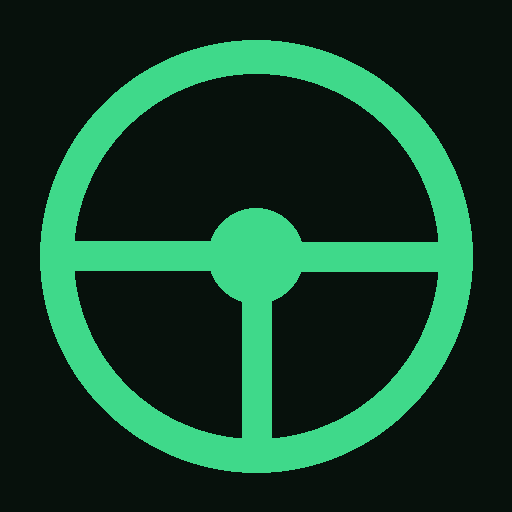
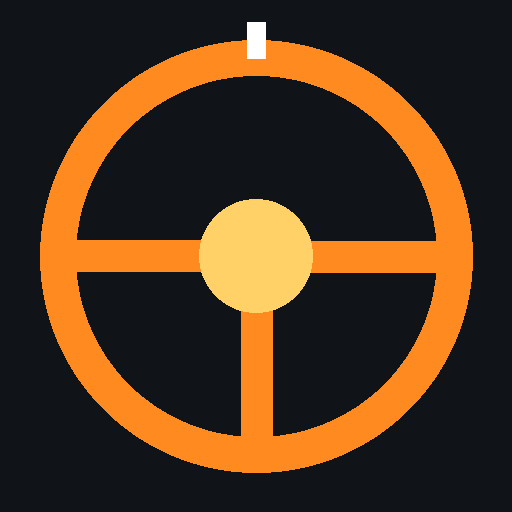
App Guida: aspetto tutto suo (colori, sfondo e icona nuovi)
Claude-Session: https://claude.ai/code/session_01RaaJcZ193QxmhmCUdkRLYp

Changed region(s): [[0.0625, 0.0312, 0.9375, 0.9375]]

diff --git a/guida/index.html b/guida/index.html
@@ -1,13 +1,13 @@
 <!doctype html><html lang="it"><head><meta charset="utf-8"><meta name="viewport" content="width=device-width,initial-scale=1,viewport-fit=cover,user-scalable=no">
-<title>Guida Gioco della Vita PM</title><link rel="manifest" href="manifest.json"><meta name="theme-color" content="#07110c"><link rel="icon" href="icona-192.png"><link rel="apple-touch-icon" href="icona-180.png">
+<title>Guida PM</title><link rel="manifest" href="manifest.json"><meta name="theme-color" content="#101317"><link rel="icon" href="icona-192.png"><link rel="apple-touch-icon" href="icona-180.png">
 <meta name="apple-mobile-web-app-capable" content="yes"><meta name="mobile-web-app-capable" content="yes"><meta name="apple-mobile-web-app-title" content="Guida PM"><meta name="robots" content="noindex">
 <style>
-:root{--bg:#07110c;--card:#0d1a13;--card2:#11241a;--ink:#eafff2;--soft:#8fb7a0;--line:#1f3a2b;--acc:#3fd98a;--bad:#ff5d6c;--gold:#ffd166}
-*{box-sizing:border-box;-webkit-tap-highlight-color:transparent}html,body{margin:0;height:100%;background:var(--bg);color:var(--ink);font:16px/1.4 system-ui,-apple-system,Segoe UI,Roboto,sans-serif;overscroll-behavior:none}
-button{font:inherit;font-weight:800;border-radius:14px;padding:12px 16px;border:1.5px solid var(--line);background:var(--card);color:var(--ink);cursor:pointer}button.p{background:var(--acc);border-color:var(--acc);color:#021008}
+:root{--bg:#101317;--card:#1a1e24;--card2:#232830;--ink:#f4f6f9;--soft:#a7b0bd;--line:#343b46;--acc:#ff8a1f;--bad:#ff5d6c;--gold:#ffd166}
+*{box-sizing:border-box;-webkit-tap-highlight-color:transparent}html,body{margin:0;height:100%;background:radial-gradient(circle at 50% 0%,#20252c 0,transparent 60%),repeating-linear-gradient(45deg,rgba(255,255,255,.012) 0 2px,transparent 2px 6px),var(--bg);color:var(--ink);font:16px/1.4 system-ui,-apple-system,Segoe UI,Roboto,sans-serif;overscroll-behavior:none}
+button{font:inherit;font-weight:800;border-radius:14px;padding:12px 16px;border:1.5px solid var(--line);background:var(--card);color:var(--ink);cursor:pointer}button.p{background:var(--acc);border-color:var(--acc);color:#1a0d00}
 #home{min-height:100%;display:flex;flex-direction:column;align-items:center;justify-content:center;gap:14px;padding:max(20px,env(safe-area-inset-top)) 16px 24px;text-align:center}
-#home img{width:96px;height:96px;border-radius:24px}#home h1{margin:0;font-size:24px}#home .sub{color:var(--soft);font-weight:600;margin:0;max-width:420px}
-#cod{width:min(320px,100%);font:900 36px/1 ui-monospace,monospace;letter-spacing:8px;text-align:center;padding:14px;border-radius:16px;border:2px solid var(--acc);background:#020604;color:var(--ink)}
+#home{background:linear-gradient(180deg,transparent 0,transparent 70%,rgba(0,0,0,.25) 100%)}#home:before{content:'';position:fixed;left:50%;bottom:0;width:10px;height:42vh;transform:translateX(-50%);background:repeating-linear-gradient(180deg,#ffd166 0 26px,transparent 26px 52px);opacity:.18;pointer-events:none;z-index:-1;animation:ln 1.2s linear infinite}@keyframes ln{to{background-position:0 52px}}#home img{width:96px;height:96px;border-radius:24px;box-shadow:0 8px 30px rgba(255,138,31,.35)}#home h1{letter-spacing:.5px}#home h1 b{color:var(--acc)}#home h1{margin:0;font-size:24px}#home .sub{color:var(--soft);font-weight:600;margin:0;max-width:420px}
+#cod{width:min(320px,100%);font:900 36px/1 ui-monospace,monospace;letter-spacing:8px;text-align:center;padding:14px;border-radius:16px;border:2px solid var(--acc);background:#0a0c0f;color:var(--ink)}
 #home .p{width:min(320px,100%);font-size:19px;padding:15px}.how{background:var(--card);border:1px solid var(--line);border-radius:16px;padding:12px 14px;text-align:left;max-width:420px;font-size:14.5px;color:var(--soft);font-weight:600}.how b{color:var(--ink)}
 #err{color:var(--bad);font-weight:800;min-height:22px;margin:0}#inst{display:none}
 #drive{position:fixed;inset:0;display:none;touch-action:none;user-select:none;-webkit-user-select:none}
@@ -27,7 +27,7 @@ body.wm #mid{left:38%;right:38%;justify-content:flex-end;padding-bottom:max(18px
 #whl{position:absolute;display:none;right:max(14px,env(safe-area-inset-right));bottom:max(10px,env(safe-area-inset-bottom));width:min(42vw,78vh);height:min(42vw,78vh);touch-action:none;cursor:grab}
 body.wm #whl{display:block}#whl svg{width:100%;height:100%;transition:transform .02s}#whl.back svg{transition:transform .25s ease-out}
 #gear{position:absolute;display:none;right:calc(max(14px,env(safe-area-inset-right)) + min(42vw,78vh) - 40px);top:max(54px,calc(env(safe-area-inset-top) + 46px));flex-direction:column;gap:6px}
-body.wm #gear{display:flex}#gear button{width:52px;height:46px;padding:0;font:900 20px ui-monospace,monospace;border-radius:12px;color:var(--soft)}#gear button.on{background:var(--acc);color:#021008;border-color:var(--acc)}
+body.wm #gear{display:flex}#gear button{width:52px;height:46px;padding:0;font:900 20px ui-monospace,monospace;border-radius:12px;color:var(--soft)}#gear button.on{background:var(--acc);color:#1a0d00;border-color:var(--acc)}
 #bgv{position:absolute;inset:0;width:100%;height:100%;object-fit:cover;display:none;background:#000}body.bgg #bgv{display:block}
 body.bgg #brk{background:rgba(91,18,32,.72)}body.bgg #gas{background:rgba(13,90,46,.72)}body.bgg:not(.wm) #brk,body.bgg:not(.wm) #gas{background:rgba(0,0,0,.18);border:3px solid rgba(255,255,255,.25)}
 body.bgg #mid{text-shadow:0 2px 6px #000}body.bgg #stt{background:rgba(0,0,0,.45);border-radius:10px;padding:3px 8px}body.bgg #whl svg circle:first-child{stroke:rgba(11,22,16,.75)}
@@ -35,22 +35,22 @@ body.bgg #mid{text-shadow:0 2px 6px #000}body.bgg #stt{background:rgba(0,0,0,.45
 @keyframes r9{0%,30%{transform:rotate(0)}60%,100%{transform:rotate(-90deg)}}
 @media (orientation:portrait){body.drv #rot{display:flex}}
 #opt{position:fixed;inset:0;background:rgba(0,0,0,.65);display:none;place-items:center;z-index:6;padding:16px}#opt .in{background:var(--card);border:1.5px solid var(--acc);border-radius:20px;padding:16px;width:min(420px,100%);display:flex;flex-direction:column;gap:10px;max-height:92vh;overflow:auto}
-#opt .seg{display:flex;gap:6px}#opt .seg button{flex:1;padding:9px}#opt .seg button.on{background:var(--acc);color:#021008;border-color:var(--acc)}#opt small{color:var(--soft);font-weight:600}
+#opt .seg{display:flex;gap:6px}#opt .seg button{flex:1;padding:9px}#opt .seg button.on{background:var(--acc);color:#1a0d00;border-color:var(--acc)}#opt small{color:var(--soft);font-weight:600}
 </style></head><body>
-<div id="home"><img src="icona-192.png" alt=""><h1>Guida · Gioco della Vita PM</h1>
+<div id="home"><img src="icona-192.png" alt=""><h1>🏁 <b>Guida</b> · Gioco della Vita PM</h1>
  <p class="sub">Il tuo telefono diventa il volante del Gioco della Vita PM che hai aperto sul computer.</p>
  <input id="cod" inputmode="numeric" pattern="[0-9]*" maxlength="7" placeholder="000000" autocomplete="off" aria-label="Codice del gioco">
  <button class="p" id="go">🔗 Collega</button><p id="err"></p>
- <div class="how"><b>Come si fa</b><br>1. Sul computer, nel gioco: ⚙ Impostazioni → 🎮 Impostazioni guida → 📱 Collega al telefono.<br>2. Scrivi qui il codice che vedi sul computer.<br>3. Tieni il telefono <b>in orizzontale</b>, come un volante: a <b>destra</b> l'acceleratore, a <b>sinistra</b> il freno. Giralo per sterzare!</div>
+ <div class="how"><b>Come si fa</b><br>1. Sul computer, nel gioco: ⚙ Impostazioni → 🎮 Impostazioni guida → 📱 Collega al telefono.<br>2. Scrivi qui il codice che vedi sul computer.<br>3. Tieni il telefono <b>in orizzontale</b>: a <b>destra</b> il volante da girare col dito, a <b>sinistra</b> freno e acceleratore. Nelle ⚙ puoi scegliere di sterzare muovendo il telefono e lo sfondo col gioco.</div>
  <button id="inst">📲 Installa l'app sul telefono</button></div>
 <div id="drive"><video id="bgv" autoplay muted playsinline></video><button class="ped" id="brk" aria-label="Freno"><i>🛑</i>FRENO<small style="font-size:12px;opacity:.8">tieni premuto: retromarcia</small></button>
- <div id="mid"><svg id="wh" viewBox="0 0 100 100" aria-hidden="true"><circle cx="50" cy="50" r="42" fill="none" stroke="#3fd98a" stroke-width="8"/><circle cx="50" cy="50" r="10" fill="#3fd98a"/><path d="M8 50H40M60 50H92M50 60V92" stroke="#3fd98a" stroke-width="7" stroke-linecap="round"/><circle cx="50" cy="8" r="4" fill="#ffd166"/></svg>
+ <div id="mid"><svg id="wh" viewBox="0 0 100 100" aria-hidden="true"><circle cx="50" cy="50" r="42" fill="none" stroke="#ff8a1f" stroke-width="8"/><circle cx="50" cy="50" r="10" fill="#ff8a1f"/><path d="M8 50H40M60 50H92M50 60V92" stroke="#ff8a1f" stroke-width="7" stroke-linecap="round"/><circle cx="50" cy="8" r="4" fill="#ffd166"/></svg>
   <div id="spd">0<small>velocità</small></div><div id="stt">⏳ Mi collego…</div></div>
  <button class="ped" id="gas" aria-label="Acceleratore"><i>🟢</i>ACCELERA</button>
- <div id="whl" aria-label="Volante: giralo col dito"><svg viewBox="0 0 200 200" aria-hidden="true"><defs><radialGradient id="wg" cx="50%" cy="40%" r="60%"><stop offset="0" stop-color="#2b4a39"/><stop offset="1" stop-color="#0b1610"/></radialGradient></defs>
-  <circle cx="100" cy="100" r="88" fill="none" stroke="#0b1610" stroke-width="26"/><circle cx="100" cy="100" r="88" fill="none" stroke="#3fd98a" stroke-width="5" opacity=".85"/><circle cx="100" cy="100" r="76" fill="none" stroke="#1f3a2b" stroke-width="3"/>
-  <path d="M14 100H70M130 100H186M100 130V188" stroke="#14261c" stroke-width="22" stroke-linecap="round"/><path d="M14 100H70M130 100H186M100 130V188" stroke="#3fd98a" stroke-width="3" stroke-linecap="round" opacity=".6"/>
-  <circle cx="100" cy="100" r="34" fill="url(#wg)" stroke="#3fd98a" stroke-width="3"/><text x="100" y="108" text-anchor="middle" font-size="20" font-weight="900" fill="#3fd98a" font-family="system-ui">PM</text><rect x="94" y="6" width="12" height="14" rx="4" fill="#ffd166"/></svg></div>
+ <div id="whl" aria-label="Volante: giralo col dito"><svg viewBox="0 0 200 200" aria-hidden="true"><defs><radialGradient id="wg" cx="50%" cy="40%" r="60%"><stop offset="0" stop-color="#3a414c"/><stop offset="1" stop-color="#15181d"/></radialGradient></defs>
+  <circle cx="100" cy="100" r="88" fill="none" stroke="#15181d" stroke-width="26"/><circle cx="100" cy="100" r="88" fill="none" stroke="#ff8a1f" stroke-width="5" opacity=".85"/><circle cx="100" cy="100" r="76" fill="none" stroke="#343b46" stroke-width="3"/>
+  <path d="M14 100H70M130 100H186M100 130V188" stroke="#22272f" stroke-width="22" stroke-linecap="round"/><path d="M14 100H70M130 100H186M100 130V188" stroke="#ff8a1f" stroke-width="3" stroke-linecap="round" opacity=".6"/>
+  <circle cx="100" cy="100" r="34" fill="url(#wg)" stroke="#ff8a1f" stroke-width="3"/><text x="100" y="108" text-anchor="middle" font-size="20" font-weight="900" fill="#ff8a1f" font-family="system-ui">PM</text><rect x="94" y="6" width="12" height="14" rx="4" fill="#ffd166"/></svg></div>
  <div id="gear"><button data-gr="D" class="on">D</button><button data-gr="R">R</button></div>
  <div id="bar"><button id="ctr">🎯 Dritto</button><button id="opb">⚙</button><button id="ex">✕</button></div></div>
 <div id="rot"><i>📱</i>Gira il telefono in orizzontale<br><small style="color:var(--soft)">come un volante 🚗</small></div>

diff --git a/sorgenti/guida/index.html b/sorgenti/guida/index.html
@@ -1,13 +1,13 @@
 <!doctype html><html lang="it"><head><meta charset="utf-8"><meta name="viewport" content="width=device-width,initial-scale=1,viewport-fit=cover,user-scalable=no">
-<title>Guida Gioco della Vita PM</title><link rel="manifest" href="manifest.json"><meta name="theme-color" content="#07110c"><link rel="icon" href="icona-192.png"><link rel="apple-touch-icon" href="icona-180.png">
+<title>Guida PM</title><link rel="manifest" href="manifest.json"><meta name="theme-color" content="#101317"><link rel="icon" href="icona-192.png"><link rel="apple-touch-icon" href="icona-180.png">
 <meta name="apple-mobile-web-app-capable" content="yes"><meta name="mobile-web-app-capable" content="yes"><meta name="apple-mobile-web-app-title" content="Guida PM"><meta name="robots" content="noindex">
 <style>
-:root{--bg:#07110c;--card:#0d1a13;--card2:#11241a;--ink:#eafff2;--soft:#8fb7a0;--line:#1f3a2b;--acc:#3fd98a;--bad:#ff5d6c;--gold:#ffd166}
-*{box-sizing:border-box;-webkit-tap-highlight-color:transparent}html,body{margin:0;height:100%;background:var(--bg);color:var(--ink);font:16px/1.4 system-ui,-apple-system,Segoe UI,Roboto,sans-serif;overscroll-behavior:none}
-button{font:inherit;font-weight:800;border-radius:14px;padding:12px 16px;border:1.5px solid var(--line);background:var(--card);color:var(--ink);cursor:pointer}button.p{background:var(--acc);border-color:var(--acc);color:#021008}
+:root{--bg:#101317;--card:#1a1e24;--card2:#232830;--ink:#f4f6f9;--soft:#a7b0bd;--line:#343b46;--acc:#ff8a1f;--bad:#ff5d6c;--gold:#ffd166}
+*{box-sizing:border-box;-webkit-tap-highlight-color:transparent}html,body{margin:0;height:100%;background:radial-gradient(circle at 50% 0%,#20252c 0,transparent 60%),repeating-linear-gradient(45deg,rgba(255,255,255,.012) 0 2px,transparent 2px 6px),var(--bg);color:var(--ink);font:16px/1.4 system-ui,-apple-system,Segoe UI,Roboto,sans-serif;overscroll-behavior:none}
+button{font:inherit;font-weight:800;border-radius:14px;padding:12px 16px;border:1.5px solid var(--line);background:var(--card);color:var(--ink);cursor:pointer}button.p{background:var(--acc);border-color:var(--acc);color:#1a0d00}
 #home{min-height:100%;display:flex;flex-direction:column;align-items:center;justify-content:center;gap:14px;padding:max(20px,env(safe-area-inset-top)) 16px 24px;text-align:center}
-#home img{width:96px;height:96px;border-radius:24px}#home h1{margin:0;font-size:24px}#home .sub{color:var(--soft);font-weight:600;margin:0;max-width:420px}
-#cod{width:min(320px,100%);font:900 36px/1 ui-monospace,monospace;letter-spacing:8px;text-align:center;padding:14px;border-radius:16px;border:2px solid var(--acc);background:#020604;color:var(--ink)}
+#home{background:linear-gradient(180deg,transparent 0,transparent 70%,rgba(0,0,0,.25) 100%)}#home:before{content:'';position:fixed;left:50%;bottom:0;width:10px;height:42vh;transform:translateX(-50%);background:repeating-linear-gradient(180deg,#ffd166 0 26px,transparent 26px 52px);opacity:.18;pointer-events:none;z-index:-1;animation:ln 1.2s linear infinite}@keyframes ln{to{background-position:0 52px}}#home img{width:96px;height:96px;border-radius:24px;box-shadow:0 8px 30px rgba(255,138,31,.35)}#home h1{letter-spacing:.5px}#home h1 b{color:var(--acc)}#home h1{margin:0;font-size:24px}#home .sub{color:var(--soft);font-weight:600;margin:0;max-width:420px}
+#cod{width:min(320px,100%);font:900 36px/1 ui-monospace,monospace;letter-spacing:8px;text-align:center;padding:14px;border-radius:16px;border:2px solid var(--acc);background:#0a0c0f;color:var(--ink)}
 #home .p{width:min(320px,100%);font-size:19px;padding:15px}.how{background:var(--card);border:1px solid var(--line);border-radius:16px;padding:12px 14px;text-align:left;max-width:420px;font-size:14.5px;color:var(--soft);font-weight:600}.how b{color:var(--ink)}
 #err{color:var(--bad);font-weight:800;min-height:22px;margin:0}#inst{display:none}
 #drive{position:fixed;inset:0;display:none;touch-action:none;user-select:none;-webkit-user-select:none}
@@ -27,7 +27,7 @@ body.wm #mid{left:38%;right:38%;justify-content:flex-end;padding-bottom:max(18px
 #whl{position:absolute;display:none;right:max(14px,env(safe-area-inset-right));bottom:max(10px,env(safe-area-inset-bottom));width:min(42vw,78vh);height:min(42vw,78vh);touch-action:none;cursor:grab}
 body.wm #whl{display:block}#whl svg{width:100%;height:100%;transition:transform .02s}#whl.back svg{transition:transform .25s ease-out}
 #gear{position:absolute;display:none;right:calc(max(14px,env(safe-area-inset-right)) + min(42vw,78vh) - 40px);top:max(54px,calc(env(safe-area-inset-top) + 46px));flex-direction:column;gap:6px}
-body.wm #gear{display:flex}#gear button{width:52px;height:46px;padding:0;font:900 20px ui-monospace,monospace;border-radius:12px;color:var(--soft)}#gear button.on{background:var(--acc);color:#021008;border-color:var(--acc)}
+body.wm #gear{display:flex}#gear button{width:52px;height:46px;padding:0;font:900 20px ui-monospace,monospace;border-radius:12px;color:var(--soft)}#gear button.on{background:var(--acc);color:#1a0d00;border-color:var(--acc)}
 #bgv{position:absolute;inset:0;width:100%;height:100%;object-fit:cover;display:none;background:#000}body.bgg #bgv{display:block}
 body.bgg #brk{background:rgba(91,18,32,.72)}body.bgg #gas{background:rgba(13,90,46,.72)}body.bgg:not(.wm) #brk,body.bgg:not(.wm) #gas{background:rgba(0,0,0,.18);border:3px solid rgba(255,255,255,.25)}
 body.bgg #mid{text-shadow:0 2px 6px #000}body.bgg #stt{background:rgba(0,0,0,.45);border-radius:10px;padding:3px 8px}body.bgg #whl svg circle:first-child{stroke:rgba(11,22,16,.75)}
@@ -35,22 +35,22 @@ body.bgg #mid{text-shadow:0 2px 6px #000}body.bgg #stt{background:rgba(0,0,0,.45
 @keyframes r9{0%,30%{transform:rotate(0)}60%,100%{transform:rotate(-90deg)}}
 @media (orientation:portrait){body.drv #rot{display:flex}}
 #opt{position:fixed;inset:0;background:rgba(0,0,0,.65);display:none;place-items:center;z-index:6;padding:16px}#opt .in{background:var(--card);border:1.5px solid var(--acc);border-radius:20px;padding:16px;width:min(420px,100%);display:flex;flex-direction:column;gap:10px;max-height:92vh;overflow:auto}
-#opt .seg{display:flex;gap:6px}#opt .seg button{flex:1;padding:9px}#opt .seg button.on{background:var(--acc);color:#021008;border-color:var(--acc)}#opt small{color:var(--soft);font-weight:600}
+#opt .seg{display:flex;gap:6px}#opt .seg button{flex:1;padding:9px}#opt .seg button.on{background:var(--acc);color:#1a0d00;border-color:var(--acc)}#opt small{color:var(--soft);font-weight:600}
 </style></head><body>
-<div id="home"><img src="icona-192.png" alt=""><h1>Guida · Gioco della Vita PM</h1>
+<div id="home"><img src="icona-192.png" alt=""><h1>🏁 <b>Guida</b> · Gioco della Vita PM</h1>
  <p class="sub">Il tuo telefono diventa il volante del Gioco della Vita PM che hai aperto sul computer.</p>
  <input id="cod" inputmode="numeric" pattern="[0-9]*" maxlength="7" placeholder="000000" autocomplete="off" aria-label="Codice del gioco">
  <button class="p" id="go">🔗 Collega</button><p id="err"></p>
- <div class="how"><b>Come si fa</b><br>1. Sul computer, nel gioco: ⚙ Impostazioni → 🎮 Impostazioni guida → 📱 Collega al telefono.<br>2. Scrivi qui il codice che vedi sul computer.<br>3. Tieni il telefono <b>in orizzontale</b>, come un volante: a <b>destra</b> l'acceleratore, a <b>sinistra</b> il freno. Giralo per sterzare!</div>
+ <div class="how"><b>Come si fa</b><br>1. Sul computer, nel gioco: ⚙ Impostazioni → 🎮 Impostazioni guida → 📱 Collega al telefono.<br>2. Scrivi qui il codice che vedi sul computer.<br>3. Tieni il telefono <b>in orizzontale</b>: a <b>destra</b> il volante da girare col dito, a <b>sinistra</b> freno e acceleratore. Nelle ⚙ puoi scegliere di sterzare muovendo il telefono e lo sfondo col gioco.</div>
  <button id="inst">📲 Installa l'app sul telefono</button></div>
 <div id="drive"><video id="bgv" autoplay muted playsinline></video><button class="ped" id="brk" aria-label="Freno"><i>🛑</i>FRENO<small style="font-size:12px;opacity:.8">tieni premuto: retromarcia</small></button>
- <div id="mid"><svg id="wh" viewBox="0 0 100 100" aria-hidden="true"><circle cx="50" cy="50" r="42" fill="none" stroke="#3fd98a" stroke-width="8"/><circle cx="50" cy="50" r="10" fill="#3fd98a"/><path d="M8 50H40M60 50H92M50 60V92" stroke="#3fd98a" stroke-width="7" stroke-linecap="round"/><circle cx="50" cy="8" r="4" fill="#ffd166"/></svg>
+ <div id="mid"><svg id="wh" viewBox="0 0 100 100" aria-hidden="true"><circle cx="50" cy="50" r="42" fill="none" stroke="#ff8a1f" stroke-width="8"/><circle cx="50" cy="50" r="10" fill="#ff8a1f"/><path d="M8 50H40M60 50H92M50 60V92" stroke="#ff8a1f" stroke-width="7" stroke-linecap="round"/><circle cx="50" cy="8" r="4" fill="#ffd166"/></svg>
   <div id="spd">0<small>velocità</small></div><div id="stt">⏳ Mi collego…</div></div>
  <button class="ped" id="gas" aria-label="Acceleratore"><i>🟢</i>ACCELERA</button>
- <div id="whl" aria-label="Volante: giralo col dito"><svg viewBox="0 0 200 200" aria-hidden="true"><defs><radialGradient id="wg" cx="50%" cy="40%" r="60%"><stop offset="0" stop-color="#2b4a39"/><stop offset="1" stop-color="#0b1610"/></radialGradient></defs>
-  <circle cx="100" cy="100" r="88" fill="none" stroke="#0b1610" stroke-width="26"/><circle cx="100" cy="100" r="88" fill="none" stroke="#3fd98a" stroke-width="5" opacity=".85"/><circle cx="100" cy="100" r="76" fill="none" stroke="#1f3a2b" stroke-width="3"/>
-  <path d="M14 100H70M130 100H186M100 130V188" stroke="#14261c" stroke-width="22" stroke-linecap="round"/><path d="M14 100H70M130 100H186M100 130V188" stroke="#3fd98a" stroke-width="3" stroke-linecap="round" opacity=".6"/>
-  <circle cx="100" cy="100" r="34" fill="url(#wg)" stroke="#3fd98a" stroke-width="3"/><text x="100" y="108" text-anchor="middle" font-size="20" font-weight="900" fill="#3fd98a" font-family="system-ui">PM</text><rect x="94" y="6" width="12" height="14" rx="4" fill="#ffd166"/></svg></div>
+ <div id="whl" aria-label="Volante: giralo col dito"><svg viewBox="0 0 200 200" aria-hidden="true"><defs><radialGradient id="wg" cx="50%" cy="40%" r="60%"><stop offset="0" stop-color="#3a414c"/><stop offset="1" stop-color="#15181d"/></radialGradient></defs>
+  <circle cx="100" cy="100" r="88" fill="none" stroke="#15181d" stroke-width="26"/><circle cx="100" cy="100" r="88" fill="none" stroke="#ff8a1f" stroke-width="5" opacity=".85"/><circle cx="100" cy="100" r="76" fill="none" stroke="#343b46" stroke-width="3"/>
+  <path d="M14 100H70M130 100H186M100 130V188" stroke="#22272f" stroke-width="22" stroke-linecap="round"/><path d="M14 100H70M130 100H186M100 130V188" stroke="#ff8a1f" stroke-width="3" stroke-linecap="round" opacity=".6"/>
+  <circle cx="100" cy="100" r="34" fill="url(#wg)" stroke="#ff8a1f" stroke-width="3"/><text x="100" y="108" text-anchor="middle" font-size="20" font-weight="900" fill="#ff8a1f" font-family="system-ui">PM</text><rect x="94" y="6" width="12" height="14" rx="4" fill="#ffd166"/></svg></div>
  <div id="gear"><button data-gr="D" class="on">D</button><button data-gr="R">R</button></div>
  <div id="bar"><button id="ctr">🎯 Dritto</button><button id="opb">⚙</button><button id="ex">✕</button></div></div>
 <div id="rot"><i>📱</i>Gira il telefono in orizzontale<br><small style="color:var(--soft)">come un volante 🚗</small></div>

diff --git a/guida/sw.js b/guida/sw.js
@@ -1,5 +1,5 @@
 // App «Guida Gioco della Vita PM»: prima prova internet, se manca usa la copia salvata
-const C='guida-pm-v3',F=['./','./index.html','./manifest.json','./icona-192.png','./icona-512.png','./icona-512-m.png','./icona-180.png','../lib/peerjs.min.js'];
+const C='guida-pm-v4',F=['./','./index.html','./manifest.json','./icona-192.png','./icona-512.png','./icona-512-m.png','./icona-180.png','../lib/peerjs.min.js'];
 self.addEventListener('install',e=>{e.waitUntil(caches.open(C).then(c=>c.addAll(F)).catch(()=>{}));self.skipWaiting()});
 self.addEventListener('activate',e=>{e.waitUntil(caches.keys().then(k=>Promise.all(k.filter(x=>x!==C&&/^guida-pm/.test(x)).map(x=>caches.delete(x)))));self.clients.claim()});
 self.addEventListener('fetch',e=>{if(e.request.method!=='GET'||new URL(e.request.url).origin!==location.origin)return;
